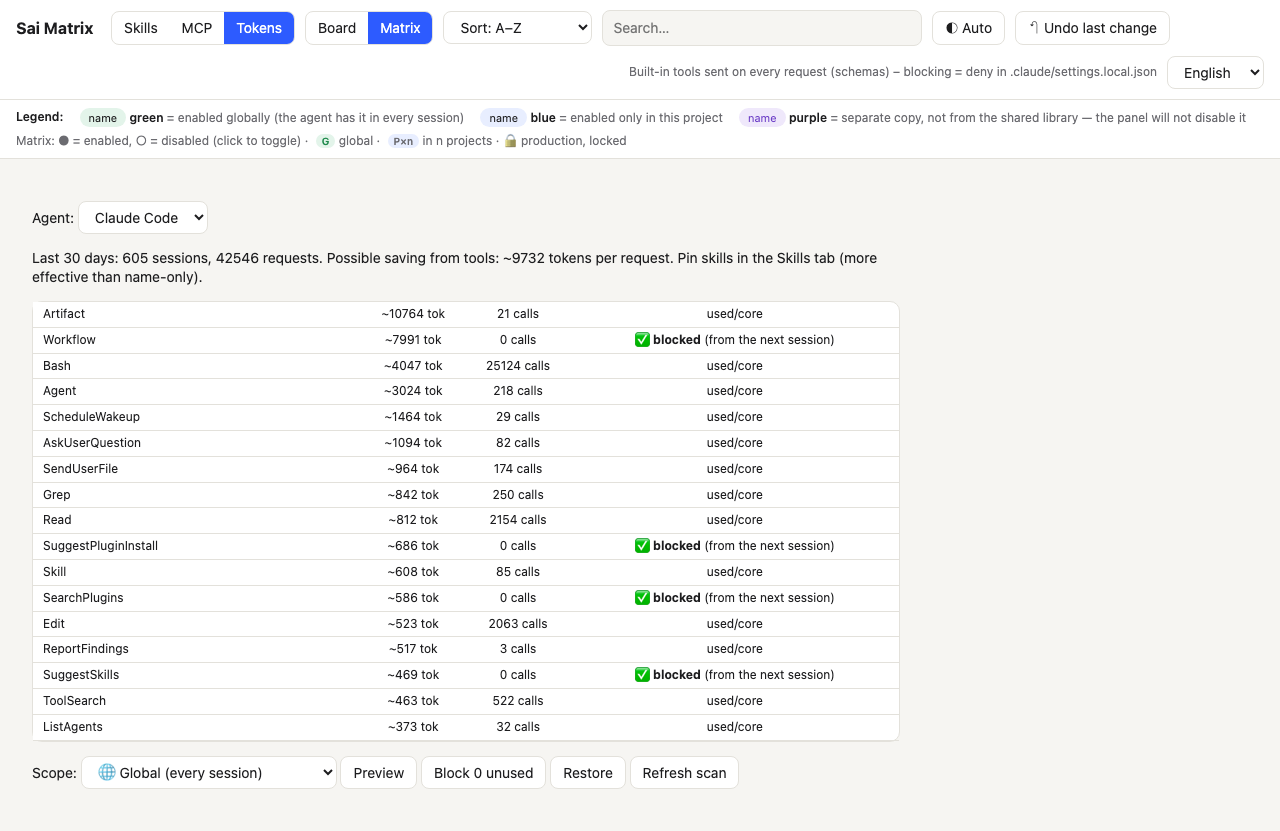
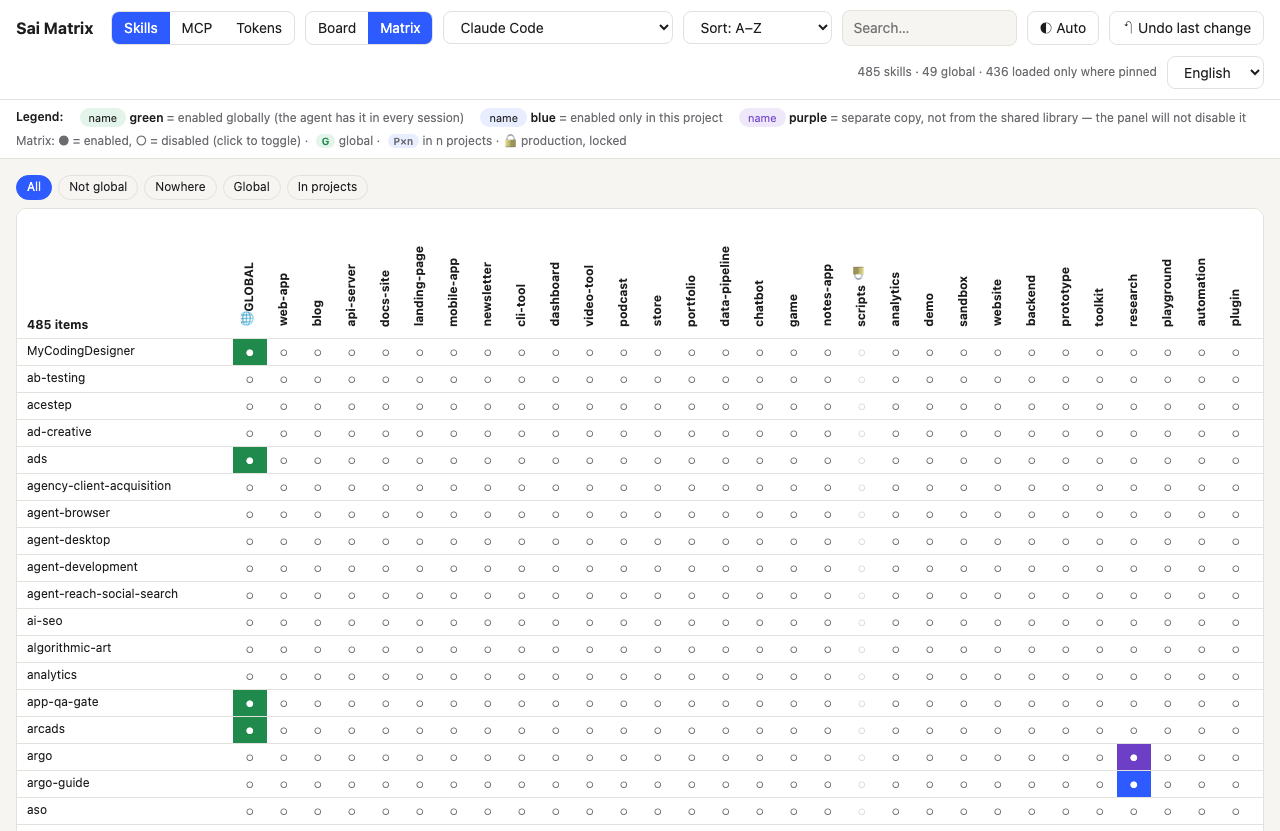
Add skills matrix screenshot, keep Tokens one as second image

diff --git a/README.md b/README.md
@@ -6,7 +6,11 @@ Every skill you install and every MCP server you configure costs tokens on every
 
 Pure Python standard library. No dependencies, no build step, no telemetry. Everything runs on `127.0.0.1`.
 
-![Sai Matrix, Tokens tab](docs/screenshot.png)
+![Sai Matrix, skills matrix](docs/screenshot.png)
+
+The Tokens tab shows which built-in tools your agent loads but never uses:
+
+![Sai Matrix, Tokens tab](docs/screenshot-tokens.png)
 
 Supports Claude Code, Codex, Gemini CLI, OpenCode, Hermes and Antigravity (skills for all of them; MCP editing for Claude Code and Gemini CLI, read-only view for the rest).
 
